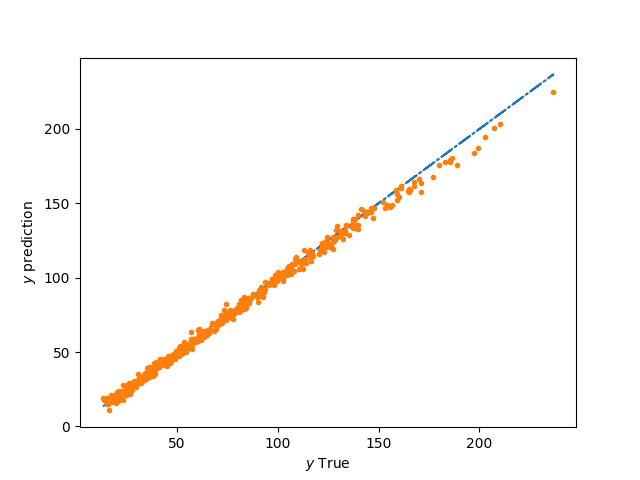
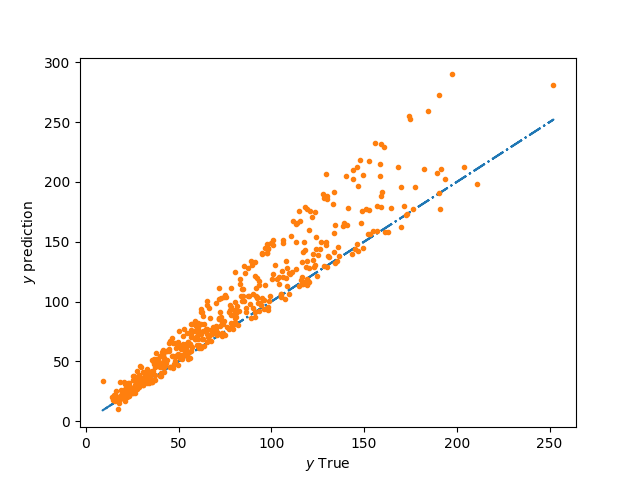
updates

diff --git a/doc/_src_docs/extensions/vfm.rst b/doc/_src_docs/extensions/vfm.rst
@@ -11,7 +11,7 @@ In the additive method, high- and low-fidelity models, :math:`y_{\text{high}}({\
  
 The additive bridge function was developed by Lewis and Nash [1]_.
 
-In the same way, the multiplicative bridge function is defined by 
+In the same way, the multiplicative bridge function is defined by
 
 .. math ::
         \gamma({\bf x})=\frac{y_\text{high}({\bf x})}{y_\text{low}({\bf x})}
@@ -28,15 +28,15 @@ Usage
 
 .. code-block:: python
 
-  import numpy as np
   import matplotlib.pyplot as plt
+  import numpy as np
   from scipy import linalg
   from smt.utils import compute_rms_error
-
+  
   from smt.problems import WaterFlowLFidelity, WaterFlow
-  from smt.sampling import LHS
+  from smt.sampling_methods import LHS
   from smt.extensions import VFM
-
+  
   # Problem set up
   ndim = 8
   ntest = 500
@@ -52,43 +52,43 @@ Usage
   type_bridge = 'Multiplicative'
   optionsLF = {}
   optionsB = {'theta0':[1e-2]*ndim,'print_prediction': False,'deriv':False}
-
+  
   # Construct low/high fidelity data and validation points
   sampling = LHS(xlimits=funLF.xlimits,criterion='m')
   xLF = sampling(ndoeLF)
   yLF = funLF(xLF)
   if deriv1:
-     dy_LF = np.zeros((ndoeLF,1))
-     for i in range(ndim):
-         yd = funLF(xLF,kx=i)
-	 dy_LF = np.concatenate((dy_LF,yd),axis=1)
-
+      dy_LF = np.zeros((ndoeLF,1))
+      for i in range(ndim):
+          yd = funLF(xLF,kx=i)
+          dy_LF = np.concatenate((dy_LF,yd),axis=1)
+  
   sampling = LHS(xlimits=funHF.xlimits,criterion ='m')
   xHF = sampling(ndoeHF)
   yHF = funHF(xHF)
-      if deriv2:
-         dy_HF = np.zeros((ndoeHF,1))
-         for i in range(ndim):
-             yd = funHF(xHF,kx=i)
-	     dy_HF = np.concatenate((dy_HF,yd),axis=1)
-
+  if deriv2:
+      dy_HF = np.zeros((ndoeHF,1))
+      for i in range(ndim):
+          yd = funHF(xHF,kx=i)
+          dy_HF = np.concatenate((dy_HF,yd),axis=1)
+  
   xtest = sampling(ntest)
   ytest = funHF(xtest)
   dytest = np.zeros((ntest,ndim))
   for i in range(ndim):
       dytest[:,i] = funHF(xtest,kx=i).T
-
+  
   # Initialize the extension VFM
   M = VFM(type_bridge=type_bridge,name_model_LF=LF_candidate,name_model_bridge=
           Bridge_candidate,X_LF=xLF,y_LF=yLF,X_HF=xHF,y_HF=yHF,options_LF=
-	  optionsLF, options_bridge = optionsB, dy_LF = dy_LF, dy_HF = dy_HF)
-
+          optionsLF, options_bridge = optionsB, dy_LF = dy_LF, dy_HF = dy_HF)
+  
   # Appliy the VFM algorithm
   M.apply_method()
   
   # Prediction of the validation points
   y = M.analyse_results(x=xtest,operation = 'predict_values')
-
+  
   plt.figure()
   plt.plot(ytest,ytest,'-.')
   plt.plot(ytest,y,'.')
@@ -97,51 +97,61 @@ Usage
   plt.show()
   
 ::
+
+  ___________________________________________________________________________
+     
+                                      QP
+  ___________________________________________________________________________
+     
+   Problem size
+     
+        # training points.        : 80
      
   ___________________________________________________________________________
-                                 QP
+     
+   Training
+     
+     Training ...
+     Training - done. Time (sec):  0.0968599
   ___________________________________________________________________________
-   
-    Problem size
-   
-      # training points.        : 80
-   
-   ___________________________________________________________________________
-   
-    Training
-   
-      Training ...
-      Training - done. Time (sec):  0.0170140
-   ___________________________________________________________________________
-   
-    Evaluation
-   
-      # eval points. : 3
-   
-    Predicting ...
-    Predicting - done. Time (sec):  0.0006950
-   
-    Prediction time/pt. (sec) :  0.0002317
-   
-   ___________________________________________________________________________
-   
-                                  Kriging
-   ___________________________________________________________________________
-   
-    Problem size
-   
-      # training points.        : 3
-   
-   ___________________________________________________________________________
-   
-    Training
-   
-      Training ...
-      Training - done. Time (sec):  0.1009760
-   ___________________________________________________________________________
-
-   
-   
+     
+   Evaluation
+     
+        # eval points. : 3
+     
+     Predicting ...
+     Predicting - done. Time (sec):  0.0002260
+     
+     Prediction time/pt. (sec) :  0.0000753
+     
+  ___________________________________________________________________________
+     
+                                    Kriging
+  ___________________________________________________________________________
+     
+   Problem size
+     
+        # training points.        : 3
+     
+  ___________________________________________________________________________
+     
+   Training
+     
+     Training ...
+  [0.03690276]
+     Training - done. Time (sec):  0.0831010
+  ___________________________________________________________________________
+     
+   Evaluation
+     
+        # eval points. : 500
+     
+     Predicting ...
+     Predicting - done. Time (sec):  0.0085850
+     
+     Prediction time/pt. (sec) :  0.0000172
+     
+  
 .. figure:: vfm_TestVFM_run_vfm_example.png
   :scale: 80 %
   :align: center
@@ -149,10 +159,9 @@ Usage
 Options
 -------
 
-
 .. list-table:: List of options
   :header-rows: 1
-  :widths: 15, 10, 10, 10, 30
+  :widths: 15, 10, 20, 20, 30
   :stub-columns: 0
 
   *  -  Option
@@ -160,58 +169,58 @@ Options
      -  Acceptable values
      -  Acceptable types
      -  Description
-  *  -  name_model_LF
-     -  None
-     -  KRG,LS,QP,KPLS,KPLSK,GEKPLS,RBF,RMTC,RMTB,IDW
-     -  None
-     -  Name of the low-fidelity model
-  *  -  options_LF
-     -  ['dict']
-     -  None
-     -  None
-     -  Options for the low-fidelity model
-  *  -  name_model_bridge
-     -  None
-     -  KRG,LS,QP,KPLS,KPLSK,GEKPLS,RBF,RMTC,RMTB,IDW
-     -  None
-     -  Name of the bridge model
-  *  -  options_bridge
-     -  ['dict']
-     -  None
-     -  None
-     -  Options for the bridge model
-  *  -  type_bridge
-     -  Additive
-     -  ['Additive', 'Multiplicative']
-     -  None
-     -  Bridge function type
-  *  -  X_LF
-     -  None
-     -  None
-     -  ['ndarray']
-     -  Low-fidelity inputs
-  *  -  y_LF
-     -  None
-     -  None
-     -  ['ndarray']
-     -  Low-fidelity ouput
   *  -  X_HF
      -  None
      -  None
      -  ['ndarray']
      -  High-fidelity inputs
-  *  -  y_HF
-     -  None
-     -  None
-     -  ['ndarray']
-     -  High-fidelity ouputs
   *  -  dy_LF
      -  None
      -  None
      -  ['ndarray']
      -  Low-fidelity derivatives
+  *  -  type_bridge
+     -  Additive
+     -  ['Additive', 'Multiplicative']
+     -  ['str']
+     -  Bridge function type
+  *  -  options_bridge
+     -  {}
+     -  None
+     -  ['dict']
+     -  Options for the bridge model
+  *  -  options_LF
+     -  {}
+     -  None
+     -  ['dict']
+     -  Options for the low-fidelity model
+  *  -  y_LF
+     -  None
+     -  None
+     -  ['ndarray']
+     -  Low-fidelity output
+  *  -  X_LF
+     -  None
+     -  None
+     -  ['ndarray']
+     -  Low-fidelity inputs
+  *  -  name_model_bridge
+     -  None
+     -  ['KRG', 'LS', 'QP', 'KPLS', 'KPLSK', 'GEKPLS', 'RBF', 'RMTC', 'RMTB', 'IDW']
+     -  ['object']
+     -  Name of the bridge model
+  *  -  name_model_LF
+     -  None
+     -  ['KRG', 'LS', 'QP', 'KPLS', 'KPLSK', 'GEKPLS', 'RBF', 'RMTC', 'RMTB', 'IDW']
+     -  ['object']
+     -  Name of the low-fidelity model
   *  -  dy_HF
      -  None
      -  None
      -  ['ndarray']
      -  High-fidelity derivatives
+  *  -  y_HF
+     -  None
+     -  None
+     -  ['ndarray']
+     -  High-fidelity output
